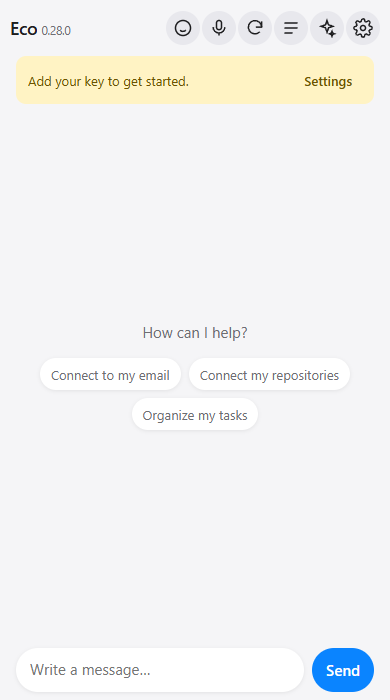
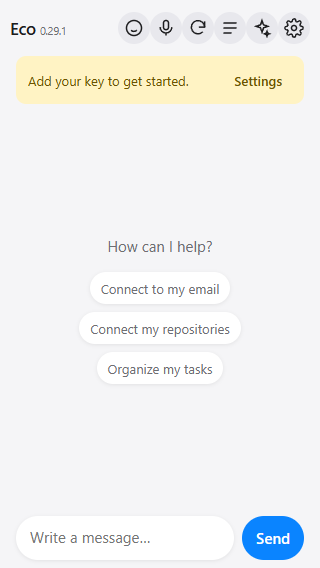
v0.29.1: version visible at 320, fresh README screenshot

diff --git a/index.html b/index.html
@@ -4,9 +4,9 @@
   <meta charset="utf-8">
   <meta name="viewport" content="width=device-width,initial-scale=1,viewport-fit=cover">
   <meta name="theme-color" content="#f5f5f7">
-  <link rel="manifest" href="manifest.webmanifest?v=0.29.0">
-  <link rel="icon" href="assets/icon.svg?v=0.29.0">
-  <link rel="stylesheet" href="css/app.css?v=0.29.0">
+  <link rel="manifest" href="manifest.webmanifest?v=0.29.1">
+  <link rel="icon" href="assets/icon.svg?v=0.29.1">
+  <link rel="stylesheet" href="css/app.css?v=0.29.1">
   <title>Eco</title>
 </head>
 <body>
@@ -42,6 +42,6 @@
   <dialog id="settings"><div class="panelHead"><h2>Settings</h2><button data-close type="button">Close</button></div><label>Name<input id="ecoName" maxlength="24" autocomplete="off" spellcheck="false" aria-describedby="ecoNameHint"></label><small id="ecoNameHint" class="fieldHint" role="status">Wake word, title and name in shared memory.</small><label>OpenRouter key<input id="openrouterKey" type="password" autocomplete="off"></label><label>Model<input id="model" autocomplete="off"></label><div class="stepLimits"><label>Steps · orchestrator<input id="orchestratorSteps" type="number" required aria-label="Orchestrator steps"></label><label>Steps · subagent<input id="subagentSteps" type="number" required aria-label="Subagent steps"></label></div><h3 class="sectionTitle">Connectors</h3><div id="connectorList" class="connectorList"></div><h3 class="sectionTitle">Routines</h3><div id="routineList" class="connectorList"></div><h3 id="memoryTitle" class="sectionTitle" hidden>Shared memory</h3><div id="memoryList" class="connectorList" hidden></div><details id="faceSettings" class="settingsSection faceVoiceSection"><summary>Face mode</summary><div id="facePackControls" class="facePackControls"></div><div id="faceSettingsFields"></div></details><details id="voiceSettings" class="settingsSection faceVoiceSection"><summary>Voice</summary><div id="voiceSettingsFields"></div></details><details id="magicSettings" class="settingsSection faceVoiceSection"><summary>Magic</summary><div id="magicList" class="connectorList"></div><form id="magicForm" class="magicForm" hidden></form></details><details id="dreamingSettings" class="settingsSection faceVoiceSection"><summary>Dreaming</summary><div id="dreamingFields"></div></details><details class="securitySection"><summary>Secure wipe</summary><p id="securityStatus" role="status"></p><form id="securityForm" autocomplete="off"><label id="securityCurrentLabel" hidden>Current word<input id="securityCurrent" type="password" autocomplete="off" maxlength="128"></label><label>New word<input id="securityNew" type="password" autocomplete="off" minlength="8" maxlength="128" required></label><label>Repeat word<input id="securityRepeat" type="password" autocomplete="off" minlength="8" maxlength="128" required></label><button id="securitySave" type="submit">Save word</button></form><div class="stepLimits wipeLimits"><label>Days closed<input id="wipeClosedDays" type="number" inputmode="numeric" required></label><label>Days offline<input id="wipeOfflineDays" type="number" inputmode="numeric" required></label><label>Skull from (days)<input id="wipeWarningDays" type="number" inputmode="decimal" required></label><label>Check (seconds)<input id="wipeIntervalSeconds" type="number" inputmode="numeric" required></label></div><p>Deletes Eco's conversations, keys and tools on this device. It does not revoke access or erase shared memory.</p><button id="clearData" class="danger" type="button">Erase Eco from this device</button></details></dialog>
   <dialog id="clarify"><h2 id="clarifyQuestion"></h2><div id="clarifyOptions" class="clarifyOptions"></div><form id="clarifyForm"><input id="clarifyText" placeholder="Your answer"><button type="submit">Continue</button></form></dialog>
   <dialog id="subagentsPanel" class="subagentsPanel"><div class="panelHead"><h2>Subagents</h2><button type="button" data-close>Close</button></div><div class="subagentPager"><button id="subagentPrevious" type="button" aria-label="Previous">‹</button><span id="subagentPosition"></span><button id="subagentNext" type="button" aria-label="Next">›</button></div><strong id="subagentTask"></strong><small id="subagentStatus"></small><p id="subagentResult"></p><button id="subagentStop" type="button">Stop</button><form id="subagentForm"><input id="subagentInstruction" placeholder="Change instructions or continue" aria-label="Instructions for the subagent" maxlength="12000"><button id="subagentFollow" type="submit">Send</button></form><p id="subagentError" role="status"></p></dialog>
-  <script type="module" src="js/app.js?v=0.29.0"></script>
+  <script type="module" src="js/app.js?v=0.29.1"></script>
 </body>
 </html>

diff --git a/css/app.css b/css/app.css
@@ -1116,12 +1116,13 @@ dialog { z-index: 30; }
   .brand { font-size: 18px; }
 }
 @media (max-width: 340px) {
-  .brand small#version { display: none; }
   .brand .offlineCountdown { margin-left: 2px; }
 }
 @media (max-width: 340px) {
   .headerActions { gap: 0; }
   .iconButton { width: 32px; min-height: 32px; padding: 6px; }
+  .brand { font-size: 17px; }
+  .brand small { font-size: 11px; }
 }
 .voiceSwitches { display: grid; gap: 0; margin-bottom: 4px; }
 .voiceSwitch { margin-top: 10px; }

diff --git a/js/config.js b/js/config.js
@@ -1,5 +1,5 @@
 export const APP_ID = "eco";
-export const APP_VERSION = "0.29.0";
+export const APP_VERSION = "0.29.1";
 export const PYODIDE_URL = "https://cdn.jsdelivr.net/pyodide/v314.0.7/full/pyodide.js";
 export const DEFAULT_MODEL = "deepseek/deepseek-v4.1-flash-1017";
 export const STORAGE_PREFIX = "eco.";

diff --git a/sw.js b/sw.js
@@ -1,6 +1,6 @@
 let wiping = false;
-const CACHE_NAME = "eco-v0.29.0";
-const VERSION_QUERY = "?v=0.29.0";
+const CACHE_NAME = "eco-v0.29.1";
+const VERSION_QUERY = "?v=0.29.1";
 const SHELL_FILES = [
   "./",
   "index.html",

diff --git a/py/eco/agent.py b/py/eco/agent.py
@@ -8,7 +8,7 @@ from .compression import compact
 
 OPENROUTER_URL = "https://openrouter.ai/api/v1/chat/completions"
 APP_TITLE = "Eco"
-APP_VERSION = "0.29.0"
+APP_VERSION = "0.29.1"
 DEFAULT_MODEL = "deepseek/deepseek-v4.1-flash-1017"
 CONTEXT_TOKEN_LIMIT = 128000
 LIMIT_PROMPT = (

diff --git a/py/eco/__init__.py b/py/eco/__init__.py
@@ -1,2 +1,2 @@
-APP_VERSION = "0.29.0"
+APP_VERSION = "0.29.1"
 from .agent import run_turn

diff --git a/README.md b/README.md
@@ -2,9 +2,9 @@
 
 An AI agent that lives in your browser: it talks with you, builds its own tools and remembers what matters.
 
-[App](https://juliangdeveloper.github.io/eco/) · Version 0.29.0
+[App](https://juliangdeveloper.github.io/eco/) · Version 0.29.1
 
-<img src="assets/screenshot.png?v=0.29.0" alt="Eco home screen on a phone" width="320">
+<img src="assets/screenshot.png?v=0.29.1" alt="Eco home screen on a phone" width="320">
 
 ## Get started
 
